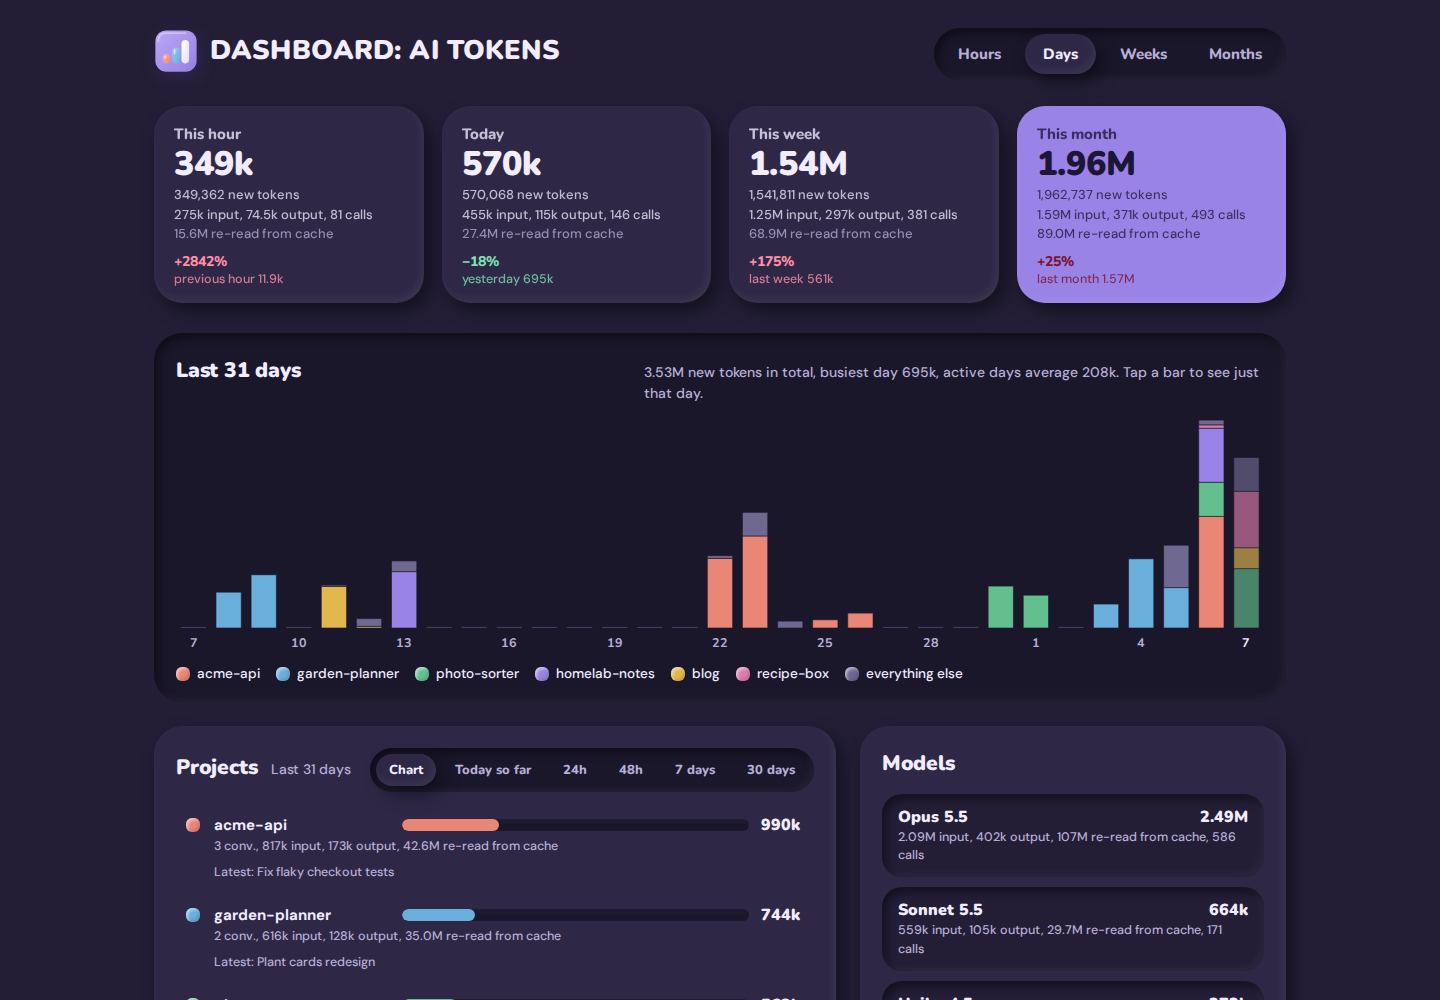
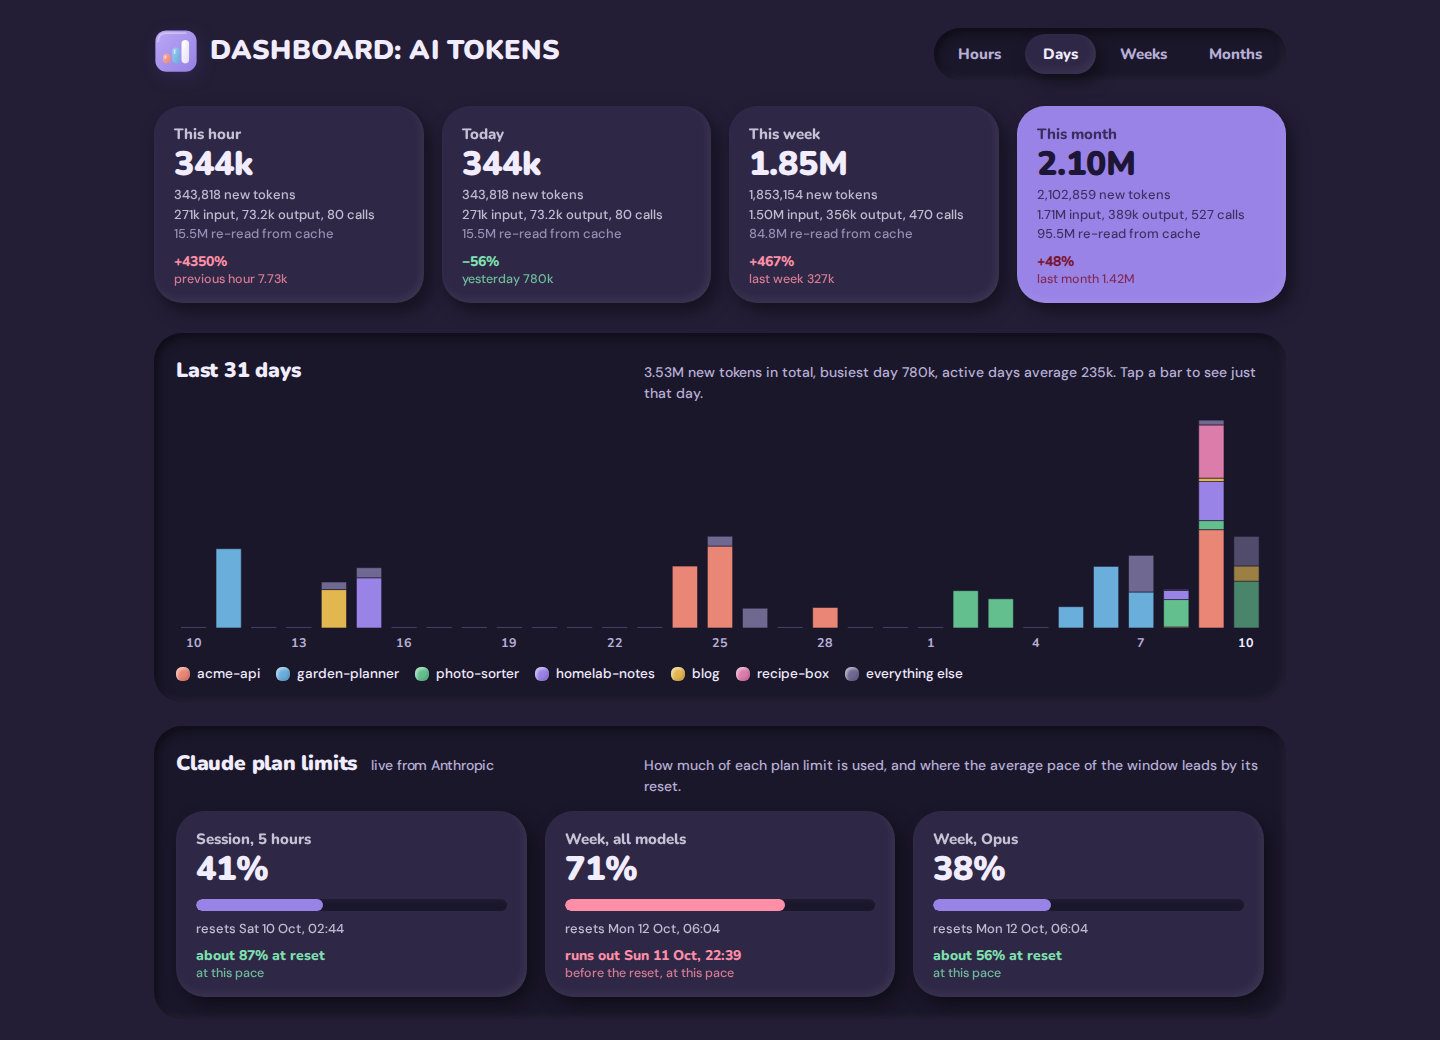
Claude plan limits box on the overview, demo limits, new screenshots

diff --git a/tokendash/ui/style.css b/tokendash/ui/style.css
@@ -175,6 +175,13 @@ footer p { margin: 0; max-width: 78ch; }
 }
 @media (prefers-reduced-motion: reduce) { * { transition: none !important; } }
 
+/* plan limits */
+.pebbles.limits { grid-template-columns: repeat(3, minmax(0, 1fr)); margin-bottom: 4px; }
+.pebbles.limits .fill { margin: 8px 0 6px; }
+.fill .lim { background: var(--p3); }
+.fill .lim.out { background: var(--up); }
+@media (max-width: 900px) { .pebbles.limits { grid-template-columns: 1fr; } }
+
 /* caveman savings */
 .cave-tray .tray-head a { font-weight: 700; margin-left: 4px; }
 .pebbles.cave { grid-template-columns: repeat(4, 1fr); margin-bottom: 4px; }

diff --git a/tokendash/ui/view.py b/tokendash/ui/view.py
@@ -1,7 +1,11 @@
 """Argilla: claymorphism. New tokens as clay pebbles that grow from the hour to the month.
 Main figure everywhere: new tokens (input + cache write + output). Cache reads, the history sent
 again on every call, are shown beside it as re-reads."""
+from datetime import datetime
+
 from tokendash.caveman import BEFORE_DAYS
+from tokendash.limits import forecast
+from tokendash.store import to_local
 from tokendash.query import PROJECT_WINDOWS
 from tokendash.fmt import (CLOUDCLI_URL, GRAIN_NAMES, KIND, SIGNATURE, SORTS, TOKEN_NOTE, bar_chart, change, clock, count,
                            esc, legend, project_colors, reread, share, split, tokens, when)
@@ -134,7 +138,38 @@ def caveman_block(c, u):
 {caveman_pebbles(c)}</section>"""
 
 
-def overview(ctx, u, cav=None):
+LIMIT_NAMES = {"session": "Session, 5 hours", "weekly_all": "Week, all models"}
+
+
+def limit_pebble(lim):
+    """One plan limit: percent used, a gauge, the reset and where the pace leads."""
+    pc = max(0, min(lim["percent"], 100))
+    name = LIMIT_NAMES.get(lim["kind"]) or lim["name"].replace("Settimana", "Week,")
+    reset = to_local(datetime.fromisoformat(lim["resets_at"])).strftime("%a %-d %b, %H:%M") if lim["resets_at"] else "unknown"
+    f = forecast(lim)
+    bar = "lim out" if f and f["runs_out"] else "lim"
+    if f is None:
+        chg = '<span class="chg flat">too early for a forecast</span>'
+    elif f["runs_out"]:
+        out = to_local(f["runs_out"]).strftime("%a %-d %b, %H:%M")
+        chg = f'<span class="chg up">runs out {out}<small>before the reset, at this pace</small></span>'
+    else:
+        chg = f'<span class="chg down">about {min(f["at_reset"], 100):.0f}% at reset<small>at this pace</small></span>'
+    return (f'<li class="pebble"><span class="ttl">{esc(name)}</span><strong>{pc:.0f}%</strong>'
+            f'<span class="fill" role="img" aria-label="{pc:.0f}% used"><span class="{bar}" style="width:{pc:.1f}%"></span></span>'
+            f'<span class="tok">resets {reset}</span>{chg}</li>')
+
+
+def limits_block(lims):
+    """Claude plan limits, live from Anthropic; hidden when they cannot be read."""
+    if not lims:
+        return ""
+    return f"""<section class="tray limits-tray"><div class="tray-head"><h2>Claude plan limits <small>live from Anthropic</small></h2>
+<p>How much of each plan limit is used, and where the average pace of the window leads by its reset.</p></div>
+<ol class="pebbles limits">{"".join(limit_pebble(l) for l in lims)}</ol></section>"""
+
+
+def overview(ctx, u, cav=None, lims=None):
     slots = project_colors(ctx["top_projects"])
     scope = ctx["scope"]
     filt = ""
@@ -178,6 +213,7 @@ def overview(ctx, u, cav=None):
   {bar_chart(ctx, u, height=200, gap=0.28)}
   <ul class="legend">{legend(ctx)}</ul>
 </section>
+{limits_block(lims)}
 {caveman_block(cav, u)}
 {filt}
 <div class="split">

diff --git a/tokendash/limits.py b/tokendash/limits.py
@@ -2,6 +2,8 @@
 as Telegram HTML text."""
 import json
 import os
+import threading
+import time
 import urllib.request
 from datetime import datetime, timedelta, timezone
 from html import escape
@@ -9,18 +11,46 @@ from html import escape
 from .store import CLAUDE_DIR, to_local
 
 URL = "https://api.anthropic.com/api/oauth/usage"
+# A saved response of URL, read instead of asking Anthropic: for demos and screenshots.
+SAVED = os.environ.get("TOKENDASH_LIMITS_JSON")
+TTL = 60  # seconds a reading is reused: the page refreshes every minute
 WINDOW = {"session": timedelta(hours=5)}  # the weekly limits last 7 days
 NAMES = {"session": "Sessione (5 ore)", "weekly_all": "Settimana (tutti i modelli)"}
 
 
-def fetch():
-    """Current limits from Anthropic, with the OAuth token Claude Code keeps fresh."""
+_cache = {"at": 0.0, "limits": None}
+_cache_lock = threading.Lock()
+
+
+def _ask():
+    if SAVED:
+        with open(SAVED) as f:
+            return json.load(f)
     with open(os.path.join(CLAUDE_DIR, ".credentials.json")) as f:
         token = json.load(f)["claudeAiOauth"]["accessToken"]
     req = urllib.request.Request(URL, headers={"Authorization": "Bearer " + token,
                                                "anthropic-beta": "oauth-2025-04-20"})
     with urllib.request.urlopen(req, timeout=30) as r:
-        limits = json.load(r).get("limits", [])
+        return json.load(r)
+
+
+def cached():
+    """fetch(), reused for TTL seconds; None when Anthropic or the token is unavailable,
+    so the page keeps working without the limits."""
+    with _cache_lock:
+        if time.monotonic() - _cache["at"] > TTL:
+            try:
+                _cache["limits"] = fetch()
+            except (OSError, ValueError, KeyError) as e:
+                print("plan limits unavailable:", e)
+                _cache["limits"] = None
+            _cache["at"] = time.monotonic()
+        return _cache["limits"]
+
+
+def fetch():
+    """Current limits from Anthropic, with the OAuth token Claude Code keeps fresh."""
+    limits = _ask().get("limits", [])
     out = []
     for lim in limits:
         name = NAMES.get(lim["kind"])

diff --git a/demo/make_demo.py b/demo/make_demo.py
@@ -1,17 +1,19 @@
 """Fills a database with invented usage, for screenshots and trying the dashboard out.
 
   python3 -m demo.make_demo data/demo.db
-  TOKENDASH_DB=data/demo.db CLAUDE_DIR=/nonexistent python3 -m tokendash.server
+  TOKENDASH_DB=data/demo.db TOKENDASH_LIMITS_JSON=data/demo-limits.json CLAUDE_DIR=/nonexistent \
+      python3 -m tokendash.server
 
 Projects, conversation titles and numbers are made up. Times are relative to now, so the
 hour/day/week/month readings and the chart are always filled. Deterministic (fixed seed).
 """
+import json
 import os
 import random
 import sys
 import time
 import uuid
-from datetime import datetime, timezone
+from datetime import datetime, timedelta, timezone
 
 from tokendash import store
 
@@ -71,6 +73,20 @@ def main(path):
     db.commit()
     n = db.execute("SELECT count(*) FROM calls").fetchone()[0]
     print(f"{n} invented calls in {path}")
+    limits(os.path.join(os.path.dirname(path), "demo-limits.json"))
+
+
+def limits(path):
+    """Invented plan limits, shaped like Anthropic's usage answer: the session is easy,
+    the week runs out before its reset, the per-model week is fine."""
+    now = datetime.now(timezone.utc)
+    rows = [("session", 41, now + timedelta(hours=2, minutes=40), None),
+            ("weekly_all", 71, now + timedelta(days=2, hours=6), None),
+            ("weekly_scoped", 38, now + timedelta(days=2, hours=6), {"model": {"display_name": "Opus"}})]
+    with open(path, "w") as f:
+        json.dump({"limits": [{"kind": k, "percent": pc, "resets_at": r.isoformat(), "scope": sc}
+                              for k, pc, r, sc in rows]}, f)
+    print(f"invented plan limits in {path}")
 
 
 if __name__ == "__main__":

diff --git a/tokendash/server.py b/tokendash/server.py
@@ -124,7 +124,7 @@ class Handler(BaseHTTPRequestHandler):
                 with lock:
                     ctx = query.overview(db, params["g"] or "day", params["at"], params["p"], params["sort"] or "new", params["pw"])
                     cav = caveman_summary()
-                return self.send(200, view.overview(ctx, u, cav))
+                return self.send(200, view.overview(ctx, u, cav, limits.cached()))
             if path == "/caveman":
                 with lock:
                     cav = caveman_summary()

diff --git a/README.md b/README.md
@@ -4,7 +4,7 @@ A small self-hosted dashboard that shows how many tokens Claude Code uses on one
 project and per conversation, by hour, day, week and month. Python standard library only, no
 JavaScript, one SQLite file.
 
-<img src="docs/screenshots/overview.png" width="1440" height="1000" alt="Overview: four readings, chart by project, projects and models">
+<img src="docs/screenshots/overview.png" width="1440" height="1040" alt="Overview: four readings, chart by project, Claude plan limits">
 
 <sub>Screenshots use invented demo data (`demo/make_demo.py`), not real usage.</sub>
 
@@ -25,7 +25,7 @@ JavaScript, one SQLite file.
 
 | Dark theme | Phone |
 |---|---|
-| <img src="docs/screenshots/overview-dark.png" width="1440" height="1000" alt="Overview in the dark theme"> | <img src="docs/screenshots/phone.png" width="390" height="844" alt="Overview on a phone"> |
+| <img src="docs/screenshots/overview-dark.png" width="1440" height="1040" alt="Overview in the dark theme"> | <img src="docs/screenshots/phone.png" width="390" height="844" alt="Overview on a phone"> |
 
 <img src="docs/screenshots/conversation.png" width="1440" height="1000" alt="Conversation page: new tokens, output, input, cache re-reads, hour by hour">
 
@@ -33,7 +33,7 @@ JavaScript, one SQLite file.
 
 ```sh
 python3 -m demo.make_demo data/demo.db
-TOKENDASH_DB=data/demo.db CLAUDE_DIR=/nonexistent python3 -m tokendash.server
+TOKENDASH_DB=data/demo.db TOKENDASH_LIMITS_JSON=data/demo-limits.json CLAUDE_DIR=/nonexistent python3 -m tokendash.server
 ```
 
 ## Requirements
@@ -100,7 +100,13 @@ The server renders HTML, the chart is inline SVG with one link per bar, the page
 `/api/report/limits` asks Anthropic for the plan limits with the OAuth token Claude Code keeps in
 `~/.claude/.credentials.json` (the same numbers as `/usage`). Each limit gets a straight-line forecast
 at the window's average pace: the percentage expected at reset, or the time it runs out if that
-comes first. No forecast in the first 5% of a window. Nothing is stored. A script that polls it and
+comes first. No forecast in the first 5% of a window. Nothing is stored. The overview shows them in
+a "Claude plan limits" box, read at most once a minute, hidden when they cannot be read.
+
+<img src="docs/screenshots/limits.png" width="1132" height="294" alt="Claude plan limits: session 41%, week 71% running out before its reset, week for one model 38%">
+
+`TOKENDASH_LIMITS_JSON` points to a saved answer to read instead of asking Anthropic (the demo
+writes one). A script that polls it and
 sends a chat message every 10 points, or when a forecast turns red, is easy to build on top.
 
 ## Run
